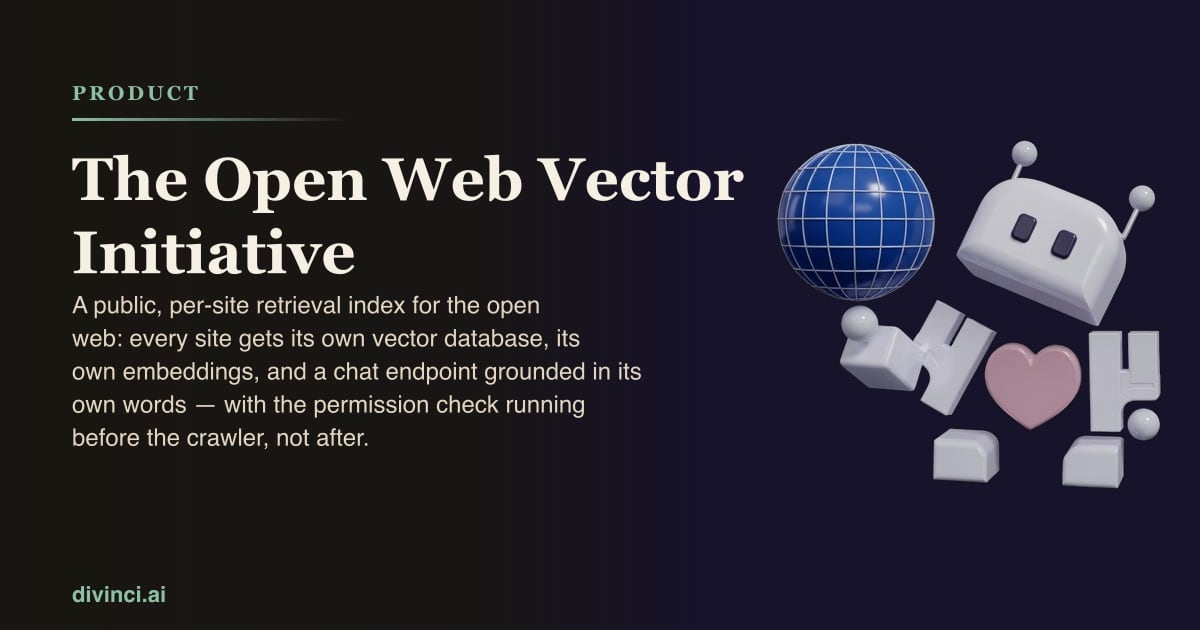
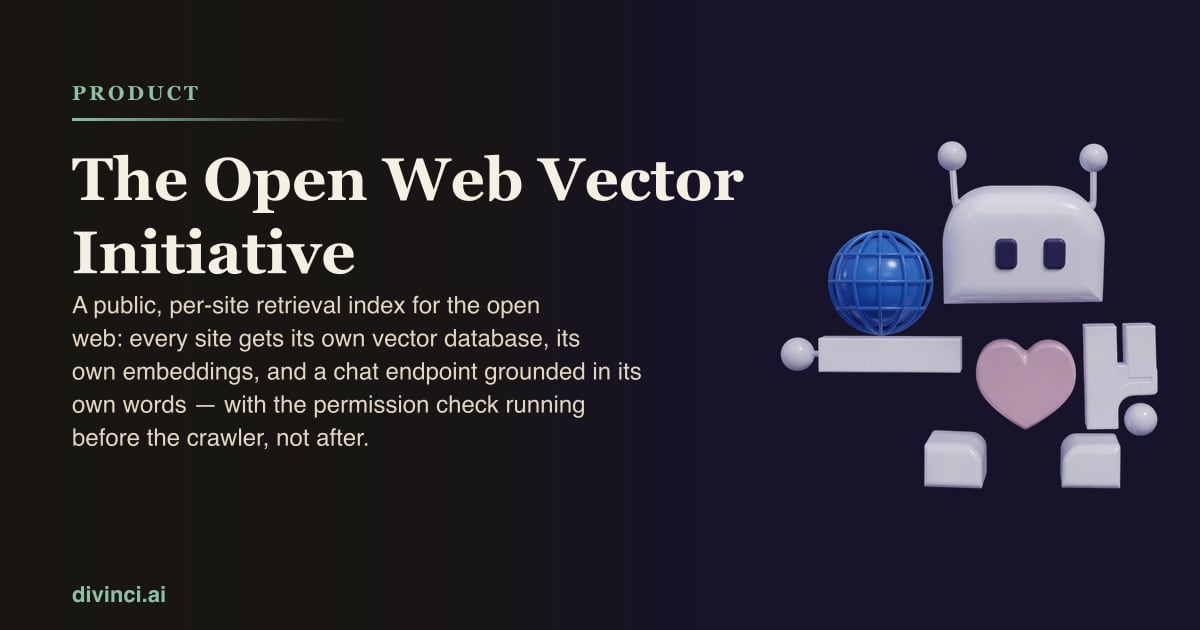
feat(open-web-vectors): arm out 90 degrees, globe above it
Drop the extra limb. Head and body stay upright; the right arm is
horizontal and the filled meridian orb floats just above it.

Changed region(s): [[0.6475, 0.2111, 0.9867, 0.7841]]

diff --git a/site/templates/open-web-vectors.html b/site/templates/open-web-vectors.html
@@ -64,8 +64,8 @@
         </g>
       </svg>
       <div class="owv-orbit-scrim"></div>
-      <img class="owv-orbit-robot" src="/images/robot-orbit-520.webp?v=orb"
-           srcset="/images/robot-orbit-320.webp?v=orb 320w, /images/robot-orbit-520.webp?v=orb 520w"
+      <img class="owv-orbit-robot" src="/images/robot-orbit-520.webp?v=arm90"
+           srcset="/images/robot-orbit-320.webp?v=arm90 320w, /images/robot-orbit-520.webp?v=arm90 520w"
            sizes="200px" width="520" height="520" alt="" loading="lazy" decoding="async">
     </div>
     <div class="container">
